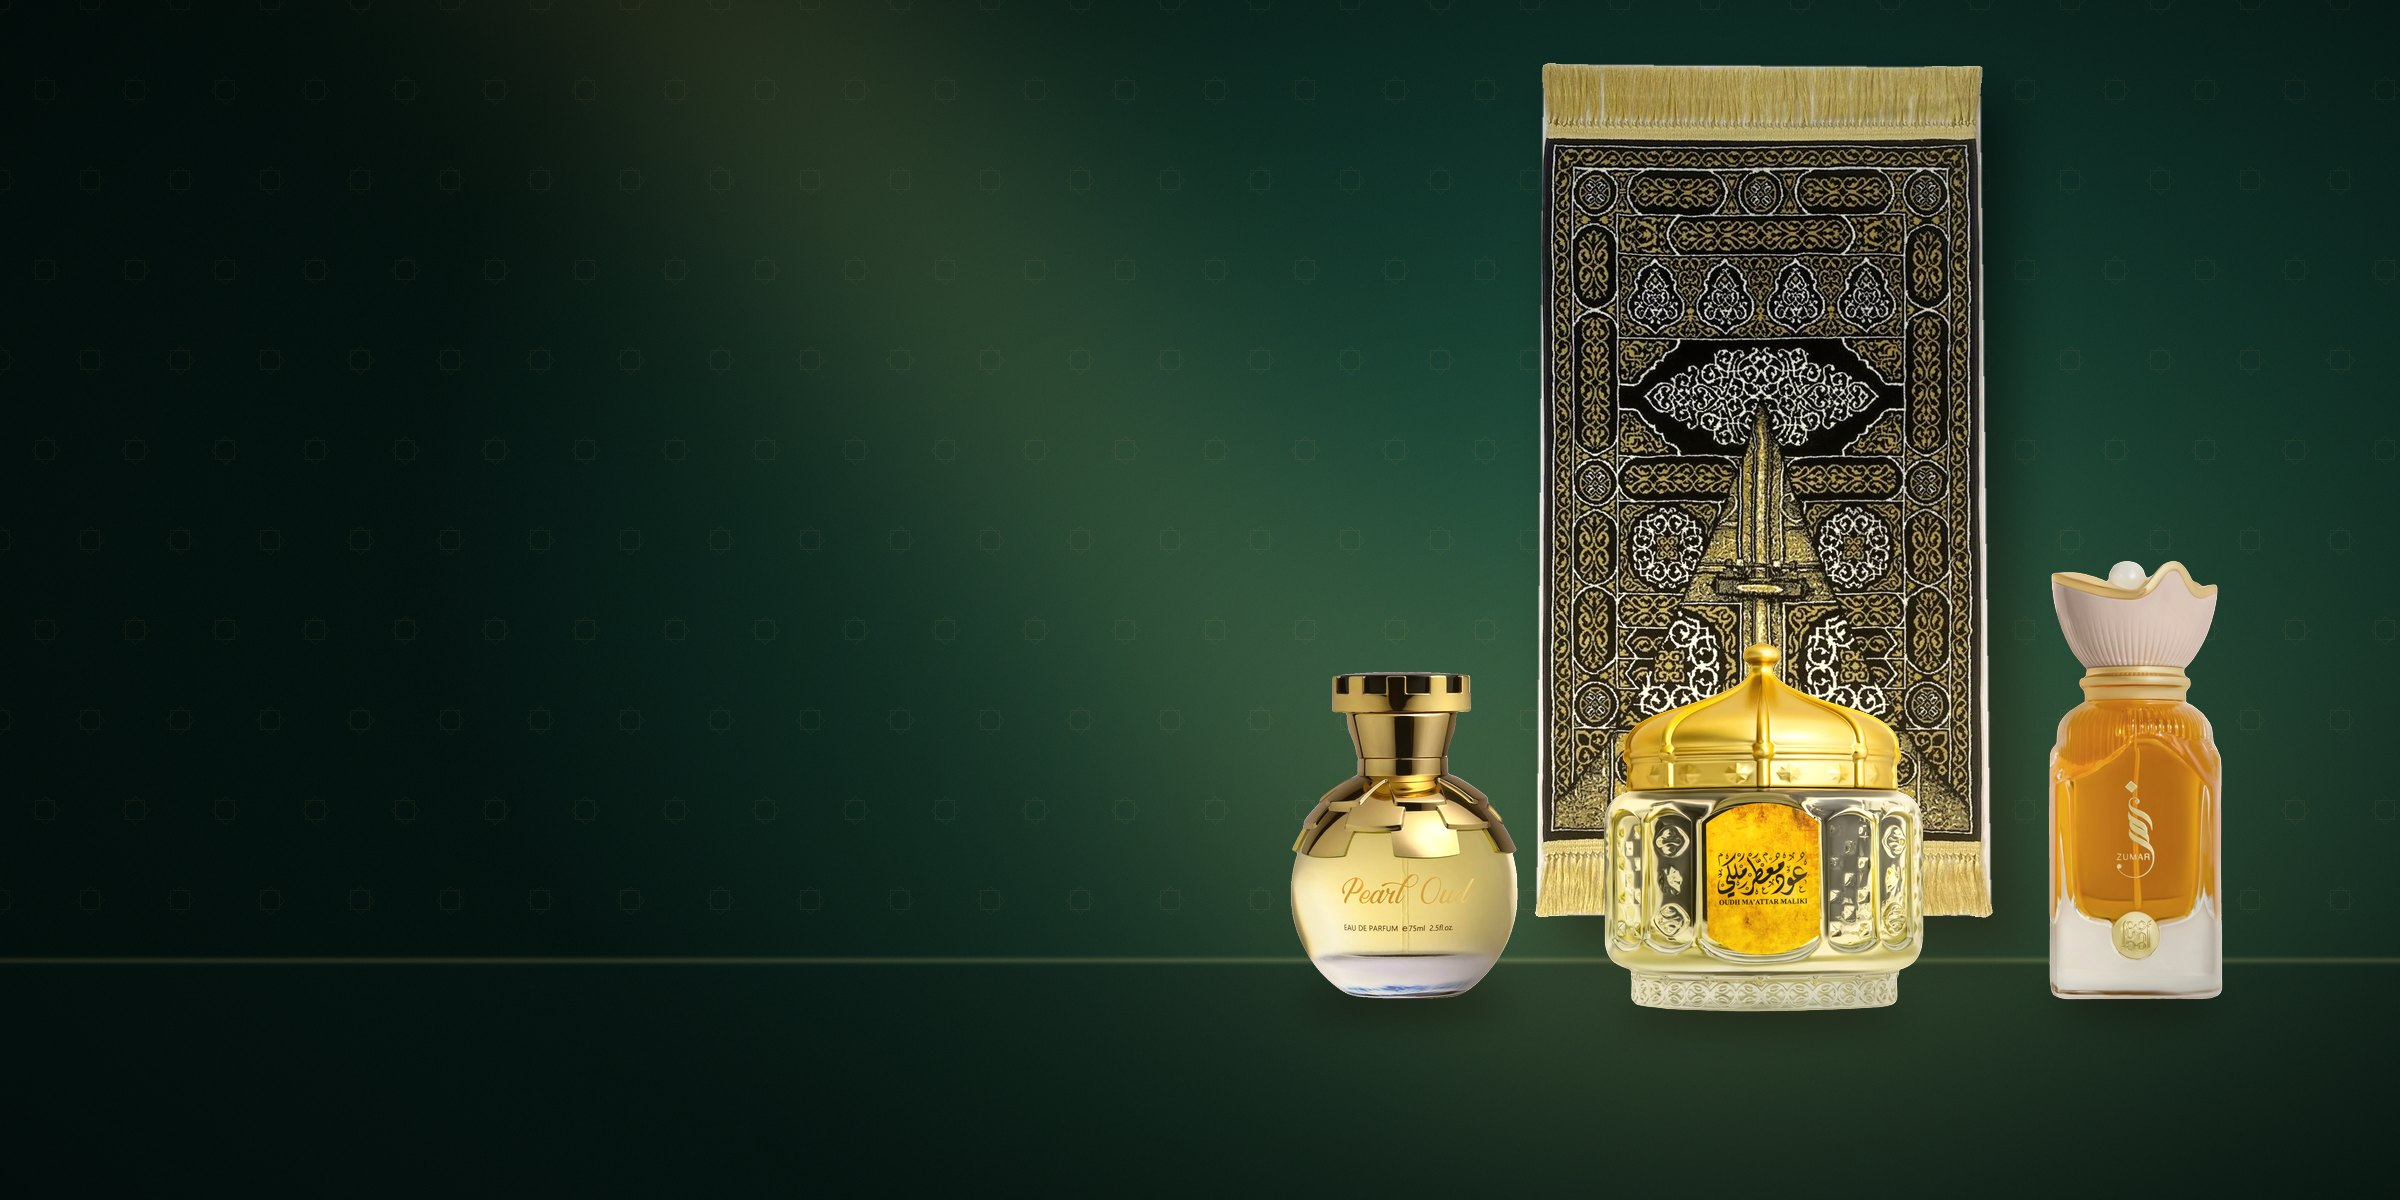
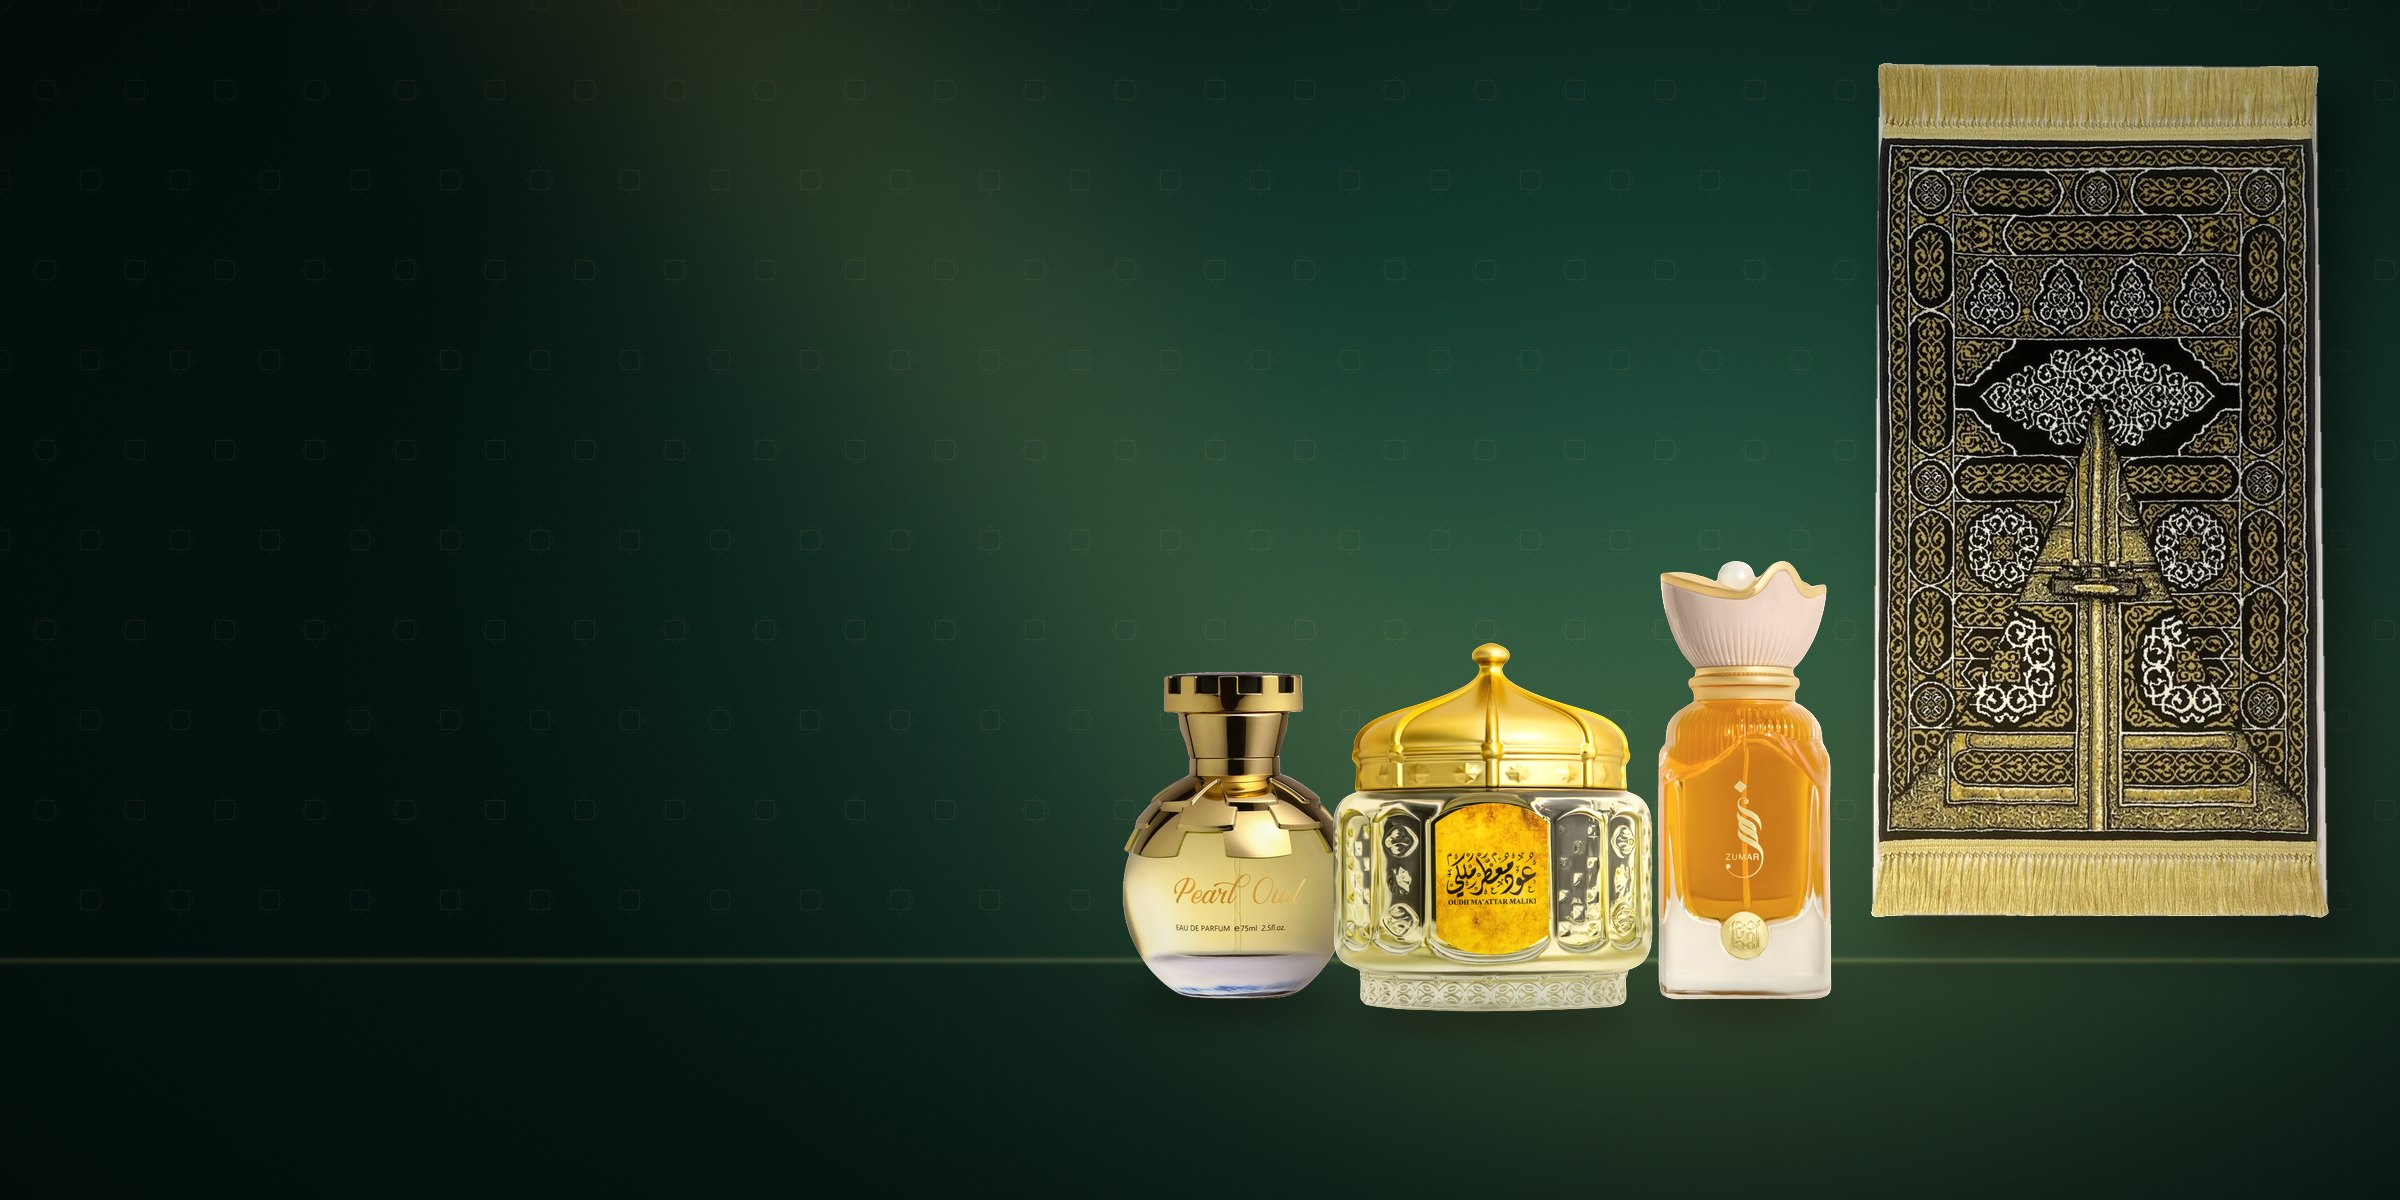
Live hero: products no longer stand in front of the Kaaba-door prayer mat [skip ci]
Claude-Session: https://claude.ai/code/session_01Fn3RxxeERW6SdmNKzfKFSz

Changed region(s): [[0.4688, 0.0308, 0.9688, 0.8633]]

diff --git a/scripts/hero_still.py b/scripts/hero_still.py
@@ -15,11 +15,11 @@ CUT, OUT = sys.argv[1].rstrip("/") + "/products/", sys.argv[2]
 RTL = len(sys.argv) > 3 and sys.argv[3] == "rtl"
 W, H = 2400, 1200
 LEDGE = int(H * 0.80)
-WALL = [("kaaba-door-prayer-mat-1.webp", 860, 0.735, 60)]  # name, height, centre x (share of width), top
+WALL = [("kaaba-door-prayer-mat-1.webp", 860, 0.875, 60)]  # name, height, centre x (share of width), top
 LEDGE_ITEMS = [  # name, height, centre x, drop below the ledge line
-    ("aam/pearl-oud-75-ml-1.webp", 330, 0.585, 40),
-    ("aam/oud-maattar-maliki-3-tola-1.webp", 370, 0.735, 52),
-    ("aam/zumar-60-ml-1.webp", 440, 0.89, 40),
+    ("aam/pearl-oud-75-ml-1.webp", 330, 0.515, 40),
+    ("aam/oud-maattar-maliki-3-tola-1.webp", 370, 0.622, 52),
+    ("aam/zumar-60-ml-1.webp", 440, 0.727, 40),
 ]
 
 y, x = np.mgrid[0:H, 0:W].astype(float)
